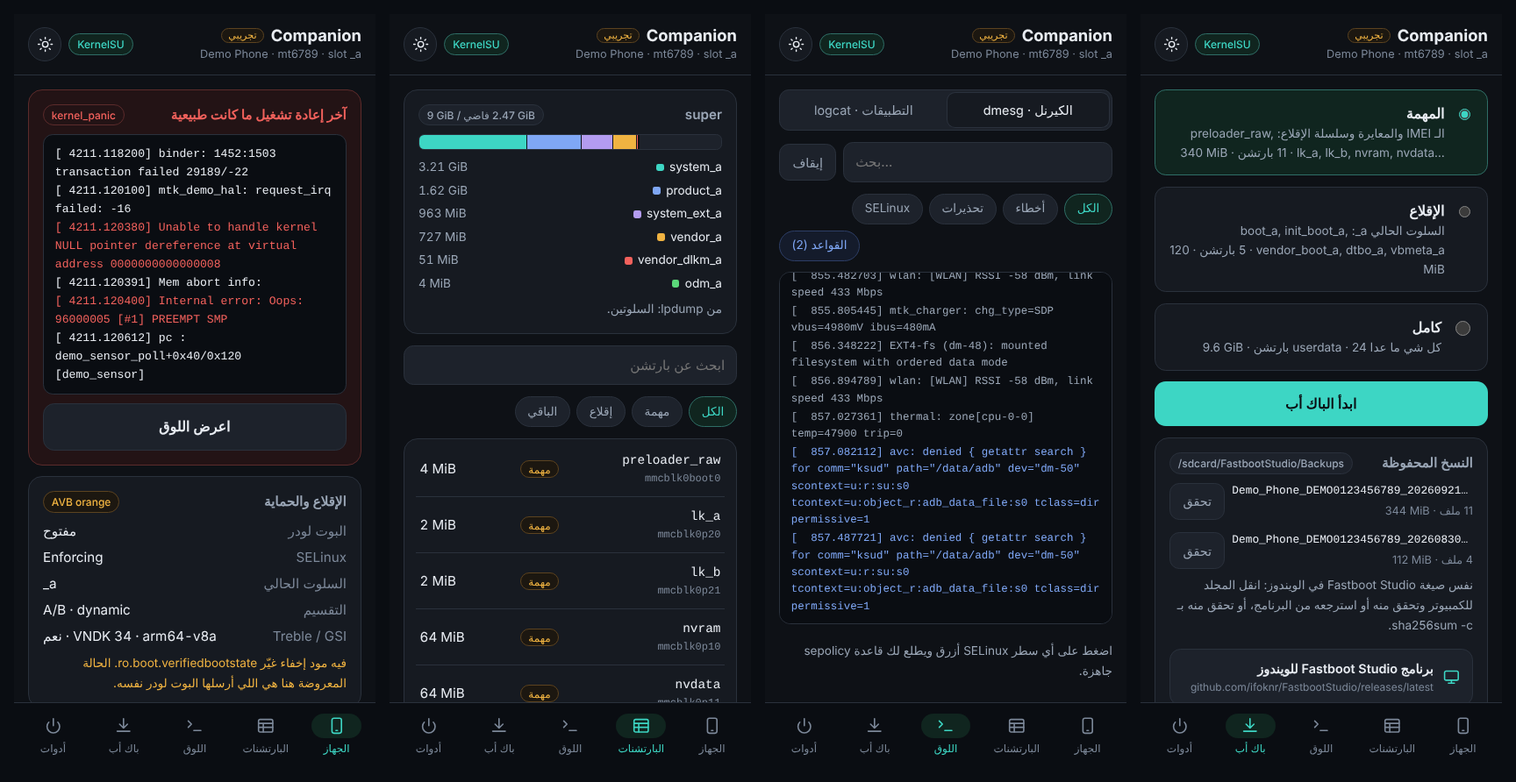
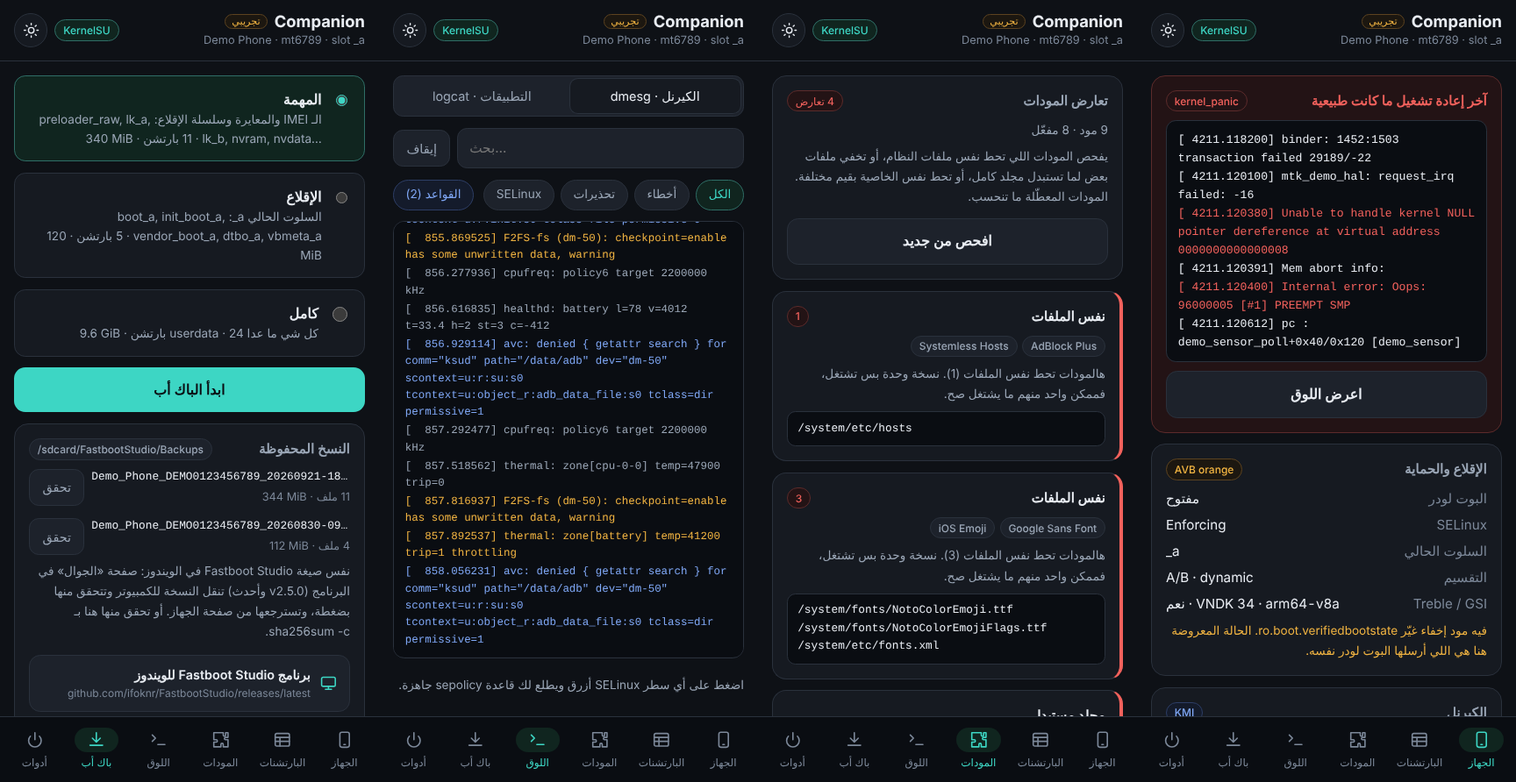
README in English and Arabic, like Fastboot Studio's
README.md is English and README.ar.md is Arabic (right to left), each
linking to the other from a centered header with the new banner, the
section links and badges. Fresh screenshots with the Modules tab, and the
tablet layout in the day theme. Release notes link to both READMEs.

diff --git a/README.md b/README.md
@@ -1,57 +1,79 @@
-# Fastboot Studio Companion
+<p align="center">
+  <img src="docs/banner.png" alt="Fastboot Studio Companion — the root companion for Fastboot Studio" width="100%">
+</p>
 
-> **Beta.** This module is experimental (v2.5.0). Its version numbers go along with Fastboot Studio's,
-> and releases are published as pre-releases until it is marked stable.
->
-> **تجريبي.** الوحدة في مرحلة تجريبية (v2.5.0)، وأرقام إصداراتها تمشي مع أرقام Fastboot Studio، وإصداراتها تنزل كإصدارات تجريبية لين تصير مستقرة.
+<p align="center">
+  <b>Device check, partitions, live logs, module conflicts and SHA-256 backups — a read-only root module for your phone.</b><br>
+  <a href="README.ar.md">العربية</a> · <a href="#install">Install</a> · <a href="#tabs">Tabs</a> · <a href="#windows">With Fastboot Studio</a> · <a href="CHANGELOG.md">What's new</a> · <a href="#help">Help</a>
+</p>
+
+<p align="center">
+  <img alt="Magisk | KernelSU | APatch" src="https://img.shields.io/badge/root-Magisk%20%7C%20KernelSU%20%7C%20APatch-0E1116?style=flat-square&labelColor=1D222B">
+  <img alt="Languages" src="https://img.shields.io/badge/UI-English%20%7C%20%D8%A7%D9%84%D8%B9%D8%B1%D8%A8%D9%8A%D8%A9-0E1116?style=flat-square&labelColor=1D222B">
+  <a href="https://github.com/ifoknr/FastbootStudio-Companion/releases"><img alt="Latest release" src="https://img.shields.io/github/v/release/ifoknr/FastbootStudio-Companion?include_prereleases&style=flat-square&labelColor=1D222B&color=2DD4BF&label=release"></a>
+  <img alt="Beta" src="https://img.shields.io/badge/status-beta-0E1116?style=flat-square&labelColor=1D222B&color=F5C451">
+  <img alt="License MIT" src="https://img.shields.io/badge/license-MIT-0E1116?style=flat-square&labelColor=1D222B">
+  <a href="https://t.me/BeNeXTBrO"><img alt="Telegram group" src="https://img.shields.io/badge/Telegram-group-0E1116?style=flat-square&labelColor=1D222B&color=229ED9"></a>
+</p>
 
 A root module for **Magisk, KernelSU and APatch** that goes with
 [Fastboot Studio](https://github.com/ifoknr/FastbootStudio) on Windows. It shows what your phone
-really is, watches its logs live, and backs up its partitions in the same layout the Windows app
-uses, all from the phone itself.
+really is, watches its logs live, finds where your modules get in each other's way, and backs up
+its partitions in the same layout the Windows app uses, all from the phone itself.
 
 **Read-only by design.** Nothing runs at boot (no `service.sh`, no `post-fs-data.sh`), so it
 cannot cause a bootloop, and it never writes to a partition. The only writes are backups and
 reports under `/sdcard/FastbootStudio`.
 
-![WebUI](docs/webui-en.png)
+> 🧪 **Beta.** The module is experimental. Its version numbers go along with Fastboot Studio's,
+> and releases are published as pre-releases until it is marked stable.
+>
+> **New in 2.5:**
+> - Works with the **Phone** page in Fastboot Studio 2.5: specs, security, conflicts and backups.
+> - A backup gets its name only when it is complete, so the app never copies a half-written one.
+>
+> **New in 2.4:**
+> - A **Modules** tab that finds conflicts between root modules.
+> - A layout for tablets and large screens, bigger text, and day and night themes.
+> - Links to the Windows app, the Telegram group and the source.
+>
+> Everything is in the [changelog](CHANGELOG.md).
 
-## What it does
+<p align="center">
+  <img src="docs/webui-en.png" alt="Device, Modules, Logs and Backup tabs" width="100%">
+</p>
 
-| Tab | |
-|---|---|
-| **Device** | Bootloader and AVB state as the bootloader reported it, even when a hiding module rewrote `ro.boot.verifiedbootstate` · kernel, KMI and security patch · battery health and eMMC/UFS wear · live CPU clocks, temperature and memory |
-| **Black box** | When the last restart was a crash, the previous boot's kernel log (pstore) with the panic lines picked out |
-| **Partitions** | Everything under `by-name` with sizes and a safety tag (critical, boot, never), plus a map of what is inside `super` |
-| **Modules** | Every installed module, and where they get in each other's way: two modules putting the same system file in place, one replacing a whole folder another adds to, or the same property set to different values |
-| **Logs** | Live kernel log and logcat with search and filters. Tap an SELinux denial to get a ready `sepolicy.rule` line, or collect all of them at once |
-| **Backup** | Critical (IMEI, calibration, boot chain), boot (current slot) or full (everything but userdata), each with `SHA256SUMS` and `backup-info.txt`. Verify any backup on the phone |
-| **Tools** | Restart to bootloader, fastbootd, recovery or EDL (Qualcomm), and a support bundle with IMEI, serial and MAC addresses masked |
-
-Arabic and English, following the phone's language.
-
+<a id="install"></a>
 ## Install
 
 Download the zip from [Releases](https://github.com/ifoknr/FastbootStudio-Companion/releases) and
-install it from your root manager.
+install it from your root manager. Updates arrive in the root manager after that.
 
 - **KernelSU / APatch:** open the module's WebUI from the Modules page.
 - **Magisk:** Magisk has no WebUI of its own. Open the module in [MMRL](https://github.com/MMRLApp/MMRL)
   or WebUI X, or press **Action** in Magisk for a text report.
 
-## Backups and the Windows app
+<a id="tabs"></a>
+## The tabs, one by one
 
-A backup folder looks exactly like one made by Fastboot Studio's Backup page:
+| Tab | |
+|---|---|
+| 📱 **Device** | Bootloader and AVB state as the bootloader reported it, even when a hiding module rewrote `ro.boot.verifiedbootstate` · kernel, KMI and security patch · battery health and eMMC/UFS wear · live CPU clocks, temperature and memory |
+| 🧯 **Black box** | When the last restart was a crash, the previous boot's kernel log (pstore) with the panic lines picked out |
+| 🗂 **Partitions** | Everything under `by-name` with sizes and a safety tag (critical, boot, never), plus a map of what is inside `super` |
+| 🧩 **Modules** | Every installed module, and where they get in each other's way: two modules putting the same system file in place, one replacing a whole folder another adds to, or the same property set to different values |
+| 📜 **Logs** | Live kernel log and logcat with search and filters. Tap an SELinux denial to get a ready `sepolicy.rule` line, or collect all of them at once |
+| 💾 **Backup** | Critical (IMEI, calibration, boot chain), boot (current slot) or full (everything but userdata), each with `SHA256SUMS` and `backup-info.txt`. Verify any backup on the phone |
+| 🛠 **Tools** | Restart to bootloader, fastbootd, recovery or EDL (Qualcomm), a support bundle with IMEI, serial and MAC addresses masked, the theme and the language |
 
-```
-/sdcard/FastbootStudio/Backups/<model>_<serial>_<yyyyMMdd-HHmmss>/
-  nvram.img  nvdata.img  boot_a.img  …
-  SHA256SUMS        check with: sha256sum -c SHA256SUMS
-  backup-info.txt
-```
+Arabic and English, following the phone's language; day and night, following the phone or your choice.
+On a tablet the tabs move to a side rail and the cards spread out:
 
-Copy it to your PC and check or restore it from Fastboot Studio.
+<p align="center">
+  <img src="docs/webui-tablet.png" alt="The Device tab on a tablet, day theme" width="80%">
+</p>
 
+<a id="windows"></a>
 ## With Fastboot Studio on Windows
 
 When the phone is connected in Android, Fastboot Studio reads the module over adb (through su):
@@ -64,6 +86,15 @@ When the phone is connected in Android, Fastboot Studio reads the module over ad
   the bootloader's own AVB state, the root manager, storage wear and each module conflict. It also
   lists the backups in `/sdcard/FastbootStudio/Backups`, then copies one to the PC and checks it
   against `SHA256SUMS` in one click (no root needed for that part).
+
+A backup folder looks exactly like one made by Fastboot Studio's Backup page:
+
+```
+/sdcard/FastbootStudio/Backups/<model>_<serial>_<yyyyMMdd-HHmmss>/
+  nvram.img  nvdata.img  boot_a.img  …
+  SHA256SUMS        check with: sha256sum -c SHA256SUMS
+  backup-info.txt
+```
 
 A backup is written to a hidden `.partial-…` folder and gets its name only when it is done, so the
 Phone page never offers one that is still being written. `tests/run.sh` checks every key the
@@ -79,15 +110,18 @@ su -c sh /data/adb/modules/fastboot_studio_companion/bin/fbs info
 su -c sh /data/adb/modules/fastboot_studio_companion/bin/fbs help
 ```
 
+<a id="help"></a>
 ## Help and news
 
-- Telegram group: https://t.me/BeNeXTBrO
-- Private message: https://t.me/IFOKNR1
-- Fastboot Studio for Windows: https://github.com/ifoknr/FastbootStudio/releases/latest
+- Telegram group: [t.me/BeNeXTBrO](https://t.me/BeNeXTBrO)
+- Private message: [t.me/IFOKNR1](https://t.me/IFOKNR1)
+- Fastboot Studio for Windows: [latest release](https://github.com/ifoknr/FastbootStudio/releases/latest)
+- Bugs and ideas: [Issues](https://github.com/ifoknr/FastbootStudio-Companion/issues). A support
+  bundle from the Tools tab helps; it masks the IMEI, serial and MAC addresses.
 
-The same links are in the WebUI, under the backups and in About.
+The same links are in the WebUI, under the backups and in Tools.
 
-## Development
+## For developers
 
 ```
 SHELLS="dash mksh busybox-sh" sh tests/run.sh   # fbs against a fake phone
@@ -100,25 +134,9 @@ root manager with a made-up phone (`?lang=ar`, `?theme=light` and `#log` pick th
 
 ---
 
-# بالعربي
+## Credits
 
-وحدة روت لـ **Magisk و KernelSU و APatch**، رفيقة لبرنامج Fastboot Studio في الويندوز.
+- Developed and maintained by **IFOKNR** — Telegram [@IFOKNR1](https://t.me/IFOKNR1) · GitHub [ifoknr](https://github.com/ifoknr)
+- Made for [Fastboot Studio](https://github.com/ifoknr/FastbootStudio)
 
-- **للقراءة فقط:** ما يشتغل شي وقت الإقلاع، فما يسبب بوت لوب، وما يكتب على أي بارتشن. الكتابة الوحيدة هي الباك أب والتقارير في `/sdcard/FastbootStudio`.
-- **الجهاز:** حالة البوت لودر و AVB من البوت لودر نفسه حتى لو مود إخفاء غيّر الخاصية، والكيرنل و KMI، وصحة البطارية والذاكرة، والمعالج لحظياً.
-- **الصندوق الأسود:** إذا الجوال طفى بسبب كراش، يعرض لك لوق الإقلاع اللي قبل مع أسطر الـ panic ملوّنة.
-- **البارتشنات:** كل اللي في by-name بأحجامها، وخريطة لمحتوى super.
-- **المودات:** يكشف التعارض بين المودات: مودين يحطون نفس ملف النظام، أو مود يستبدل مجلد كامل فيخفي ملفات مود ثاني، أو نفس الخاصية بقيم مختلفة.
-- **اللوق:** الكيرنل و logcat لحظياً. اضغط على أي سطر SELinux ويطلع لك قاعدة `sepolicy.rule` جاهزة.
-- **الباك أب:** المهمة أو الإقلاع أو كامل، مع `SHA256SUMS` بنفس صيغة برنامج الويندوز، وتقدر تتحقق منه على الجوال.
-- **مع برنامج الويندوز:** لما توصل الجوال وهو على أندرويد، البرنامج يقرا معلومات الوحدة (الكيرنل و KMI ومدير الروت وحالة AVB والتعارضات) ويعرضها، وينبهك إذا صورة boot اللي بتفلشها ما تناسب كيرنل جوالك أو مروّتة بمدير روت ثاني.
-- **أدوات:** إعادة التشغيل للـ bootloader أو fastbootd أو recovery، وحزمة دعم فني تخفي الـ IMEI والسيريال.
-
-![WebUI](docs/webui-ar.png)
-
-- قروب تيليجرام: https://t.me/BeNeXTBrO
-- الخاص: https://t.me/IFOKNR1
-
-## License
-
-MIT
+Released under the [MIT License](LICENSE).

diff --git a/README.ar.md b/README.ar.md
@@ -1,0 +1,139 @@
+<p align="center">
+  <img src="docs/banner.png" alt="Fastboot Studio Companion" width="100%">
+</p>
+
+<div dir="rtl">
+
+<p align="center">
+  <b>فحص الجهاز والبارتشنات واللوق اللحظي وتعارض المودات ونسخ احتياطي بـ SHA-256 — وحدة روت للقراءة فقط على جوالك.</b><br>
+  <a href="README.md">English</a> · <a href="#تثبيت">التثبيت</a> · <a href="#الأقسام">الأقسام</a> · <a href="#الويندوز">مع برنامج الويندوز</a> · <a href="CHANGELOG.md">سجل التعديلات</a> · <a href="#مساعدة">المساعدة</a>
+</p>
+
+<p align="center">
+  <img alt="Magisk | KernelSU | APatch" src="https://img.shields.io/badge/root-Magisk%20%7C%20KernelSU%20%7C%20APatch-0E1116?style=flat-square&labelColor=1D222B">
+  <img alt="Languages" src="https://img.shields.io/badge/UI-English%20%7C%20%D8%A7%D9%84%D8%B9%D8%B1%D8%A8%D9%8A%D8%A9-0E1116?style=flat-square&labelColor=1D222B">
+  <a href="https://github.com/ifoknr/FastbootStudio-Companion/releases"><img alt="Latest release" src="https://img.shields.io/github/v/release/ifoknr/FastbootStudio-Companion?include_prereleases&style=flat-square&labelColor=1D222B&color=2DD4BF&label=release"></a>
+  <img alt="Beta" src="https://img.shields.io/badge/status-beta-0E1116?style=flat-square&labelColor=1D222B&color=F5C451">
+  <img alt="License MIT" src="https://img.shields.io/badge/license-MIT-0E1116?style=flat-square&labelColor=1D222B">
+  <a href="https://t.me/BeNeXTBrO"><img alt="Telegram group" src="https://img.shields.io/badge/Telegram-group-0E1116?style=flat-square&labelColor=1D222B&color=229ED9"></a>
+</p>
+
+**Fastboot Studio Companion** وحدة روت لـ **Magisk و KernelSU و APatch**، رفيقة لبرنامج
+[Fastboot Studio](https://github.com/ifoknr/FastbootStudio) في الويندوز. تعرض لك حقيقة جوالك،
+وتتابع اللوق لحظياً، وتكشف التعارض بين المودات، وتاخذ نسخة احتياطية من البارتشنات بنفس صيغة
+برنامج الويندوز، وكل هذا من الجوال نفسه.
+
+**للقراءة فقط.** ما يشتغل شي وقت الإقلاع (لا `service.sh` ولا `post-fs-data.sh`)، فما يسبب بوت
+لوب، وما يكتب على أي بارتشن. الكتابة الوحيدة هي النسخ الاحتياطية والتقارير في `/sdcard/FastbootStudio`.
+
+> 🧪 **تجريبي.** الوحدة في مرحلة تجريبية، وأرقام إصداراتها تمشي مع أرقام Fastboot Studio،
+> وإصداراتها تنزل كإصدارات تجريبية لين تصير مستقرة.
+>
+> **الجديد في 2.5:**
+> - متوافقة مع صفحة **الجوال** في Fastboot Studio 2.5: المواصفات والحماية والتعارضات والنسخ الاحتياطية.
+> - النسخة الاحتياطية ما ياخذ اسمها إلا لما تكتمل، فالبرنامج ما ينقل نسخة ناقصة.
+>
+> **الجديد في 2.4:**
+> - تبويب **المودات** يكشف التعارض بين مودات الروت.
+> - تصميم للتابلت والشاشات الكبيرة، وخط أكبر، ووضع ليلي ونهاري.
+> - روابط برنامج الويندوز وقروب التيليجرام والسورس.
+>
+> كل التفاصيل في [سجل التعديلات](CHANGELOG.md).
+
+<p align="center">
+  <img src="docs/webui-ar.png" alt="تبويبات الجهاز والمودات واللوق والنسخ الاحتياطي" width="100%">
+</p>
+
+<a id="تثبيت"></a>
+## التثبيت
+
+نزّل ملف الـ zip من [الإصدارات](https://github.com/ifoknr/FastbootStudio-Companion/releases) وثبّته
+من مدير الروت. بعدها توصلك التحديثات من مدير الروت نفسه.
+
+- **KernelSU و APatch:** افتح واجهة الوحدة (WebUI) من صفحة المودات.
+- **Magisk:** ما فيه واجهة خاصة فيه، فافتح الوحدة في [MMRL](https://github.com/MMRLApp/MMRL)
+  أو WebUI X، أو اضغط **Action** في Magisk ويطلع لك تقرير نصي.
+
+<a id="الأقسام"></a>
+## الأقسام بالتفصيل
+
+| القسم | |
+|---|---|
+| 📱 **الجهاز** | حالة البوت لودر و AVB زي ما قالها البوت لودر نفسه، حتى لو مود إخفاء غيّر `ro.boot.verifiedbootstate` · الكيرنل و KMI ومستوى الحماية · صحة البطارية واستهلاك الذاكرة eMMC/UFS · المعالج والحرارة والرام لحظياً |
+| 🧯 **الصندوق الأسود** | إذا آخر إعادة تشغيل كانت بسبب كراش، يعرض لك لوق الإقلاع اللي قبل (pstore) مع أسطر الـ panic واضحة |
+| 🗂 **البارتشنات** | كل اللي في `by-name` بأحجامها وتصنيف أمانها (حرج، إقلاع، ممنوع)، وخريطة لمحتوى `super` |
+| 🧩 **المودات** | كل المودات المثبتة، ووين تتعارض: مودين يحطون نفس ملف النظام، أو مود يستبدل مجلد كامل فيخفي ملفات مود ثاني، أو نفس الخاصية بقيم مختلفة |
+| 📜 **اللوق** | الكيرنل و logcat لحظياً مع البحث والفلاتر. اضغط على أي سطر SELinux ويطلع لك سطر `sepolicy.rule` جاهز، أو اجمعها كلها مرة وحدة |
+| 💾 **النسخ الاحتياطي** | المهمة (IMEI والمعايرة وسلسلة الإقلاع) أو الإقلاع (السلوت الحالي) أو كامل (كل شي ما عدا userdata)، وكل نسخة معها `SHA256SUMS` و `backup-info.txt`، وتقدر تتحقق منها على الجوال |
+| 🛠 **أدوات** | إعادة التشغيل للـ bootloader أو fastbootd أو recovery أو EDL (كوالكوم)، وحزمة دعم فني تخفي الـ IMEI والسيريال وعناوين MAC، والوضع الليلي واللغة |
+
+عربي وإنجليزي حسب لغة الجوال، وليلي ونهاري حسب الجوال أو اختيارك.
+على التابلت تنتقل التبويبات لشريط جانبي وتتوزع البطاقات على الشاشة:
+
+<p align="center">
+  <img src="docs/webui-tablet-ar.png" alt="تبويب الجهاز على التابلت بالوضع النهاري" width="80%">
+</p>
+
+<a id="الويندوز"></a>
+## مع Fastboot Studio في الويندوز
+
+لما توصل الجوال وهو شغّال على أندرويد، البرنامج يقرا الوحدة عن طريق adb (بالروت):
+
+- **من v2.4.0، صفحة الجهاز:** أمر `fbs facts`، ويحفظه لنفس الجوال. منه ياخذ الكيرنل و KMI عشان يفحص
+  صورة boot قبل التفليش، ومدير الروت (ويسألك قبل تفليش صورة مروّتة بمدير ثاني)، وحالة AVB، وعدد
+  التعارضات. ويظل يعرضها حتى لو الجوال صار في البوت لودر.
+- **من v2.5.0، صفحة الجوال:** أمري `fbs info` و `fbs modules`. منها ياخذ مواصفات الجوال، وحالة AVB من
+  البوت لودر نفسه، ومدير الروت، واستهلاك الذاكرة، وكل تعارض بين المودات. ويعرض النسخ الاحتياطية اللي في
+  `/sdcard/FastbootStudio/Backups`، وينقل أي وحدة للكمبيوتر ويتحقق منها بـ `SHA256SUMS` بضغطة وحدة
+  (النقل ما يحتاج روت).
+
+مجلد النسخة الاحتياطية نفس اللي تسويه صفحة النسخ الاحتياطي في البرنامج بالضبط:
+
+<div dir="ltr">
+
+```
+/sdcard/FastbootStudio/Backups/<model>_<serial>_<yyyyMMdd-HHmmss>/
+  nvram.img  nvdata.img  boot_a.img  …
+  SHA256SUMS        check with: sha256sum -c SHA256SUMS
+  backup-info.txt
+```
+
+</div>
+
+النسخة تنكتب في مجلد مخفي `.partial-…` وما ياخذ اسمها إلا لما تكتمل، فصفحة الجوال ما تعرض نسخة لسا
+تنكتب. وفي اختبارات تتأكد من كل معلومة تقراها صفحة الجوال، فأي تغيير بالغلط ينكشف قبل النشر.
+
+## سطر الأوامر
+
+كل اللي تعرضه الواجهة جاي من سكربت واحد يطبع JSON، فتقدر تستخدمه من `adb shell` بعد:
+
+<div dir="ltr">
+
+```
+su -c sh /data/adb/modules/fastboot_studio_companion/bin/fbs info
+su -c sh /data/adb/modules/fastboot_studio_companion/bin/fbs help
+```
+
+</div>
+
+<a id="مساعدة"></a>
+## المساعدة والأخبار
+
+- قروب التيليجرام: [t.me/BeNeXTBrO](https://t.me/BeNeXTBrO)
+- الخاص: [t.me/IFOKNR1](https://t.me/IFOKNR1)
+- برنامج Fastboot Studio للويندوز: [آخر إصدار](https://github.com/ifoknr/FastbootStudio/releases/latest)
+- المشاكل والأفكار: [Issues](https://github.com/ifoknr/FastbootStudio-Companion/issues). ويساعد لو أرفقت
+  حزمة الدعم من تبويب الأدوات، وهي تخفي الـ IMEI والسيريال وعناوين MAC.
+
+نفس الروابط موجودة في الواجهة، تحت النسخ الاحتياطية وفي الأدوات.
+
+---
+
+## الحقوق
+
+- التطوير والصيانة: **IFOKNR**، تيليجرام [@IFOKNR1](https://t.me/IFOKNR1) وقيت هب [ifoknr](https://github.com/ifoknr).
+- مصنوعة لبرنامج [Fastboot Studio](https://github.com/ifoknr/FastbootStudio).
+
+الوحدة منشورة برخصة [MIT](LICENSE).
+
+</div>
